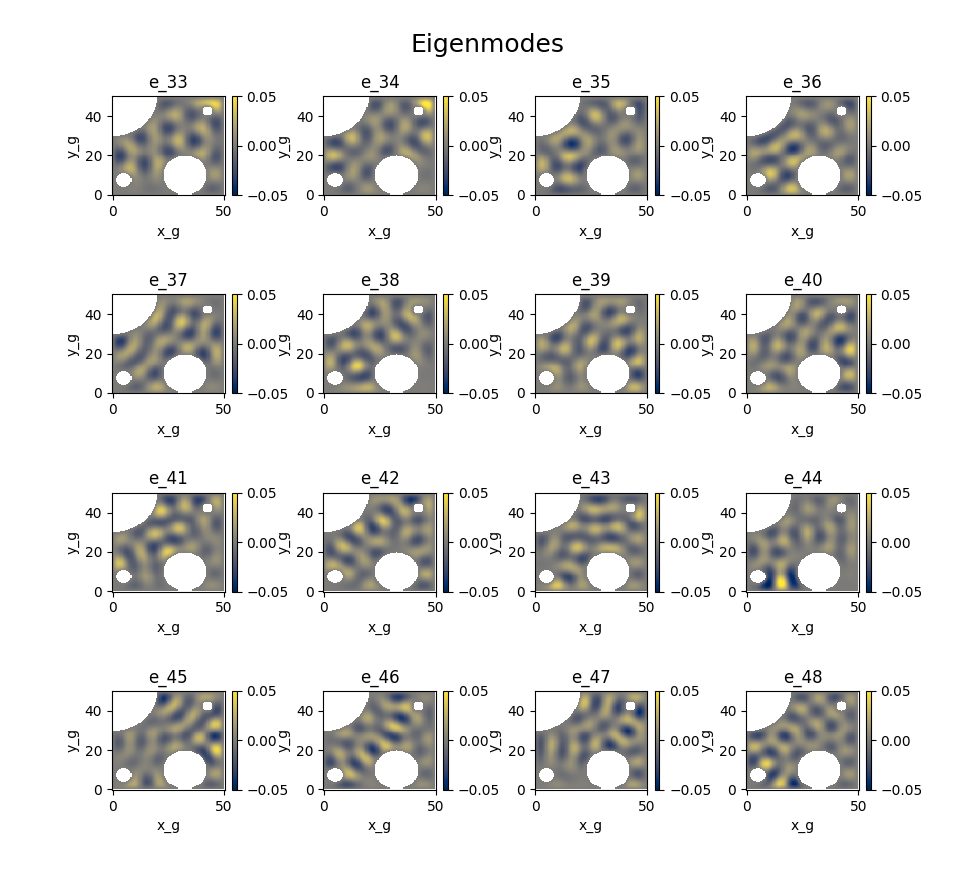
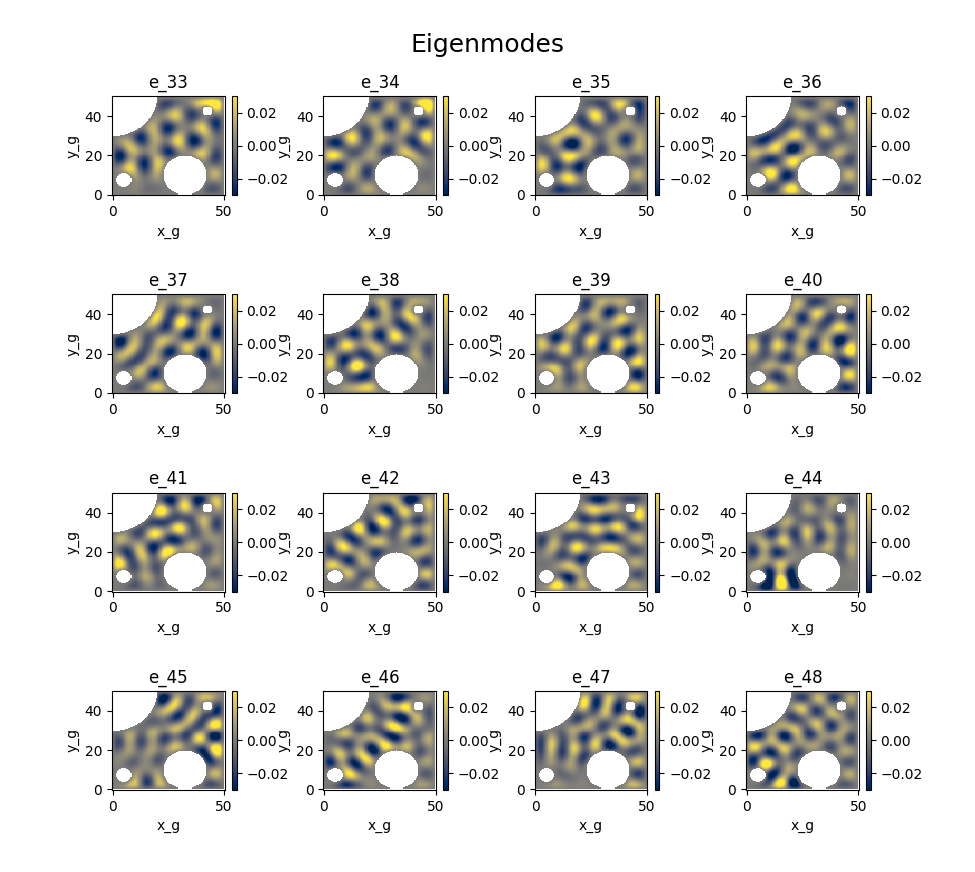
Reduce caxis ranges and increase number of modes for demo

diff --git a/examples/eigenmodesIrregularHoles.py b/examples/eigenmodesIrregularHoles.py
@@ -13,7 +13,7 @@ import numpy.ma as ma
 import sys
 import time
 
-nmodes = 20
+nmodes = 100
 
 def main():
     # Get full path to examples/
@@ -43,8 +43,7 @@ def main():
         # add a new subplot iteratively
         ax = plt.subplot(4, 4, k+1)
     
-        #plt.contourf(model.xg, model.yg, sgrid)
-        plt.pcolor(model.xg, model.yg, sgrid,vmin=-0.05, vmax=0.05)
+        plt.pcolor(model.xg, model.yg, sgrid,vmin=-0.03, vmax=0.03)
         plt.set_cmap("cividis")
         # chart formatting
         ax.set_title(f"e_{ei}")
